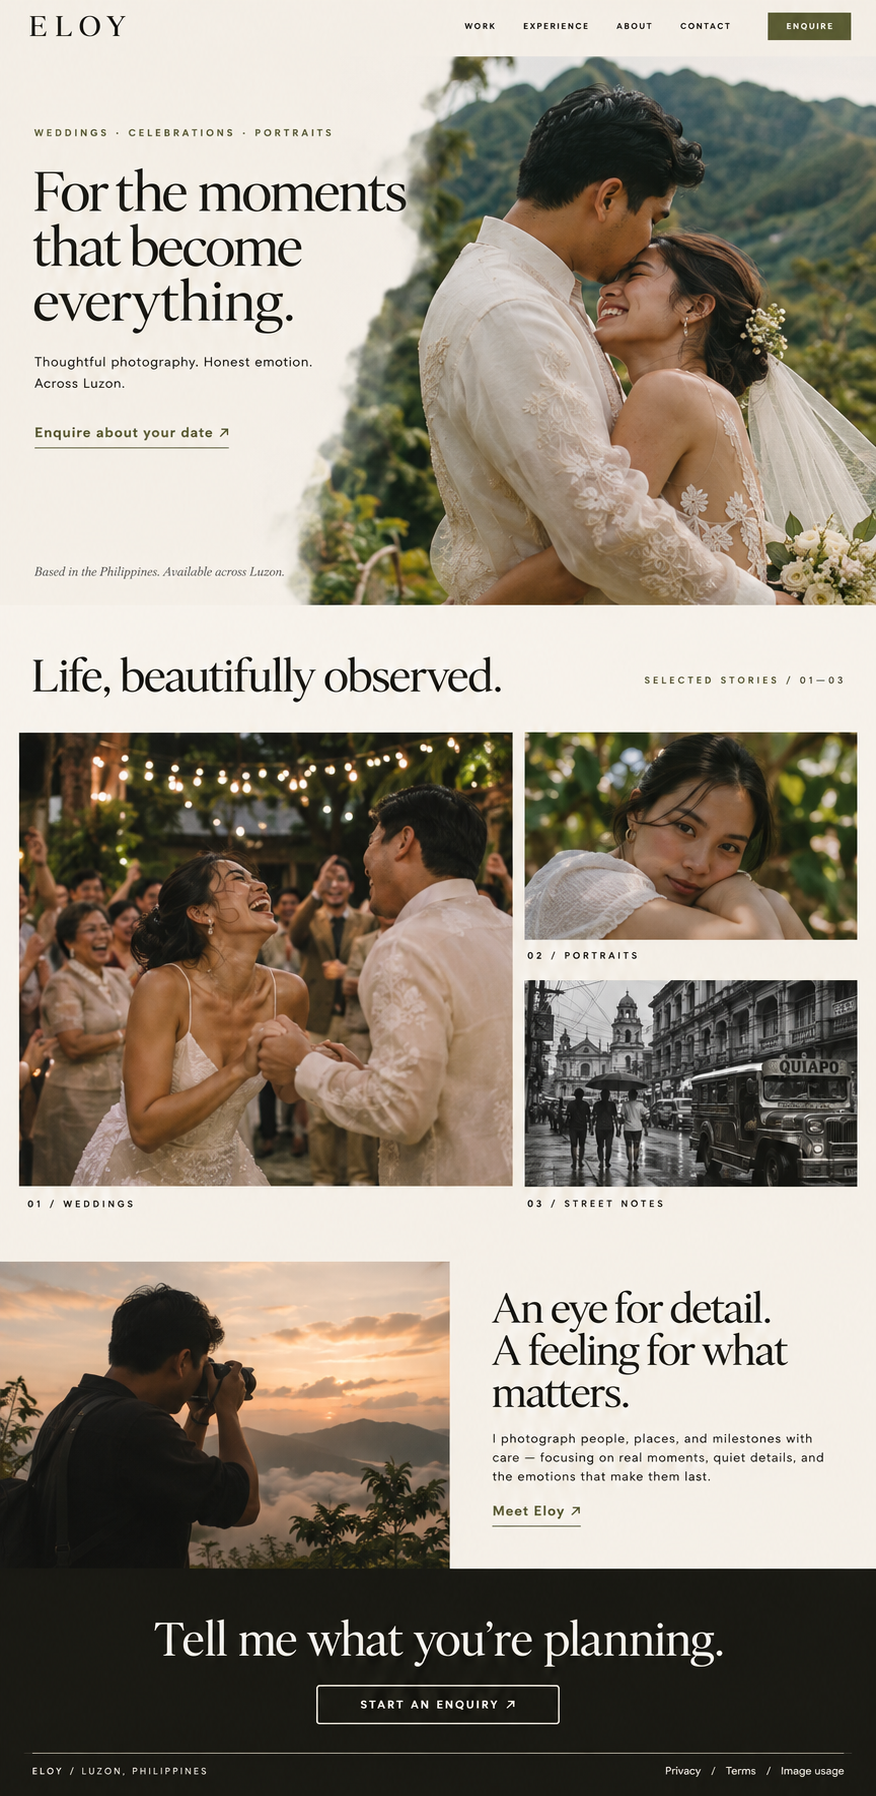
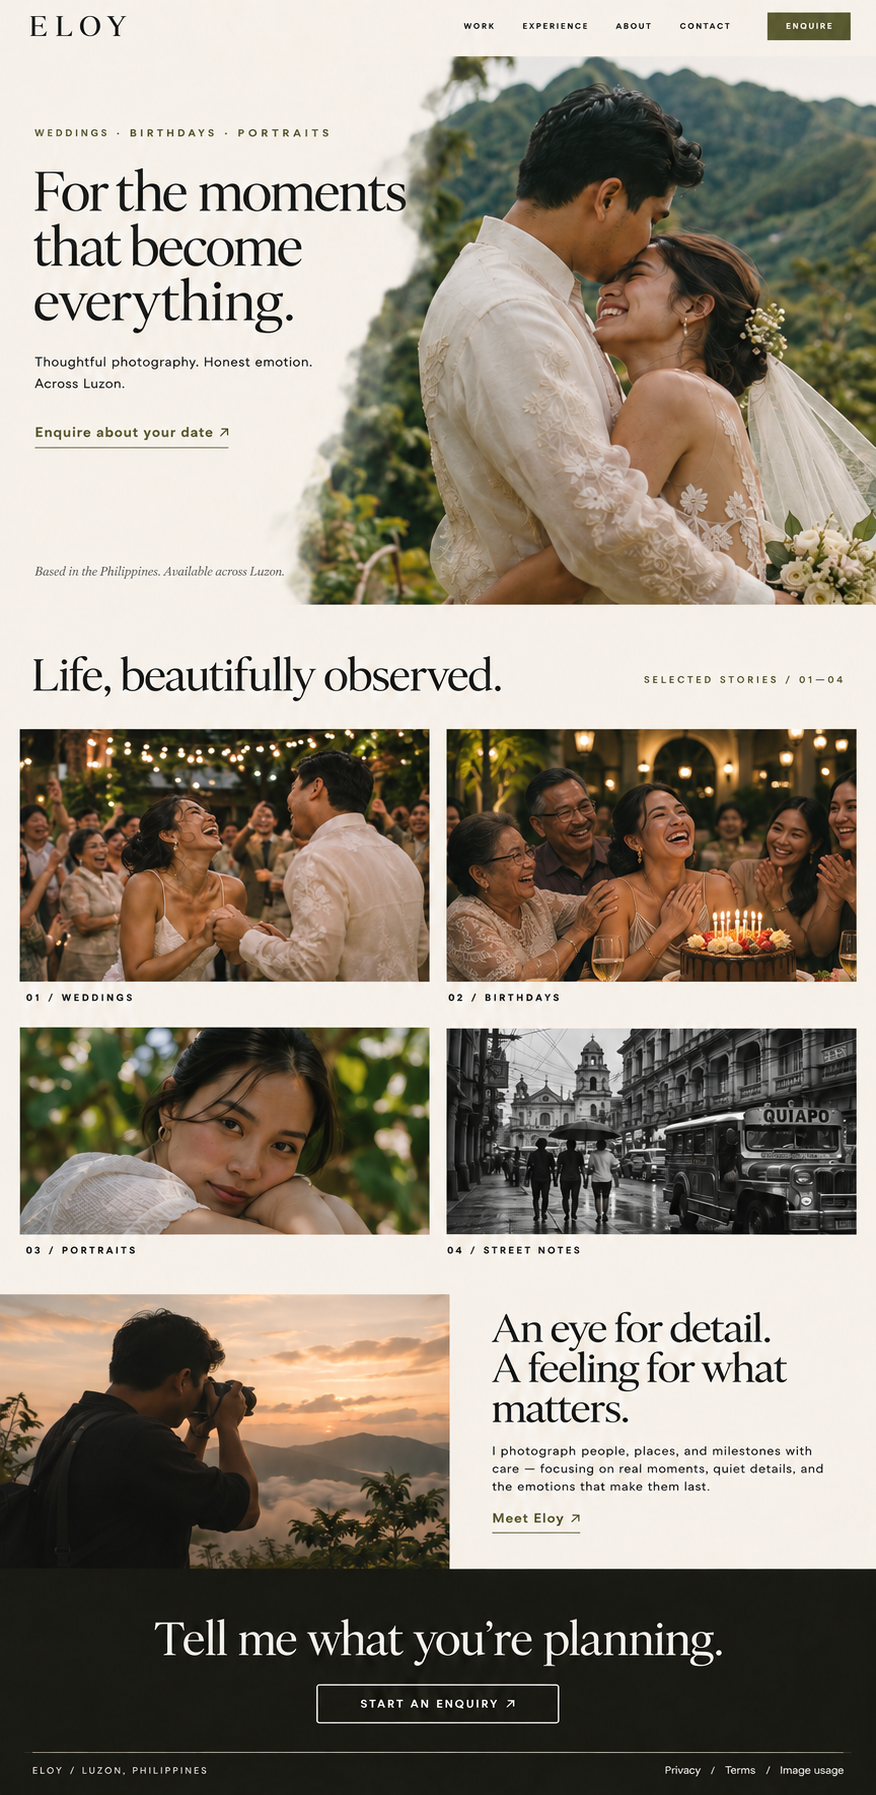
Feature birthdays in homepage concept and service scope

diff --git a/README.md b/README.md
@@ -12,6 +12,9 @@ This is a design mockup, not an implemented website. All photographs in the conc
 ## Planned website
 
 - Home, About, Services, Gallery, and Contact pages.
+- Services: Weddings, Birthdays & Celebrations, and Portraits, each with tailored quotes.
+- Gallery categories: Weddings, Birthdays, Portraits, and Street Notes. Birthdays have a dedicated image and category in the homepage concept.
+- Enquiry service choices include birthdays, with optional guest count and event details.
 - Privacy Notice, Terms & Conditions, and Copyright & Image Usage pages.
 - Responsive layouts, accessible gallery interactions, restrained animation, and optimised images.
 - Supabase for portfolio data, image storage, administrator authentication, and private enquiries.
